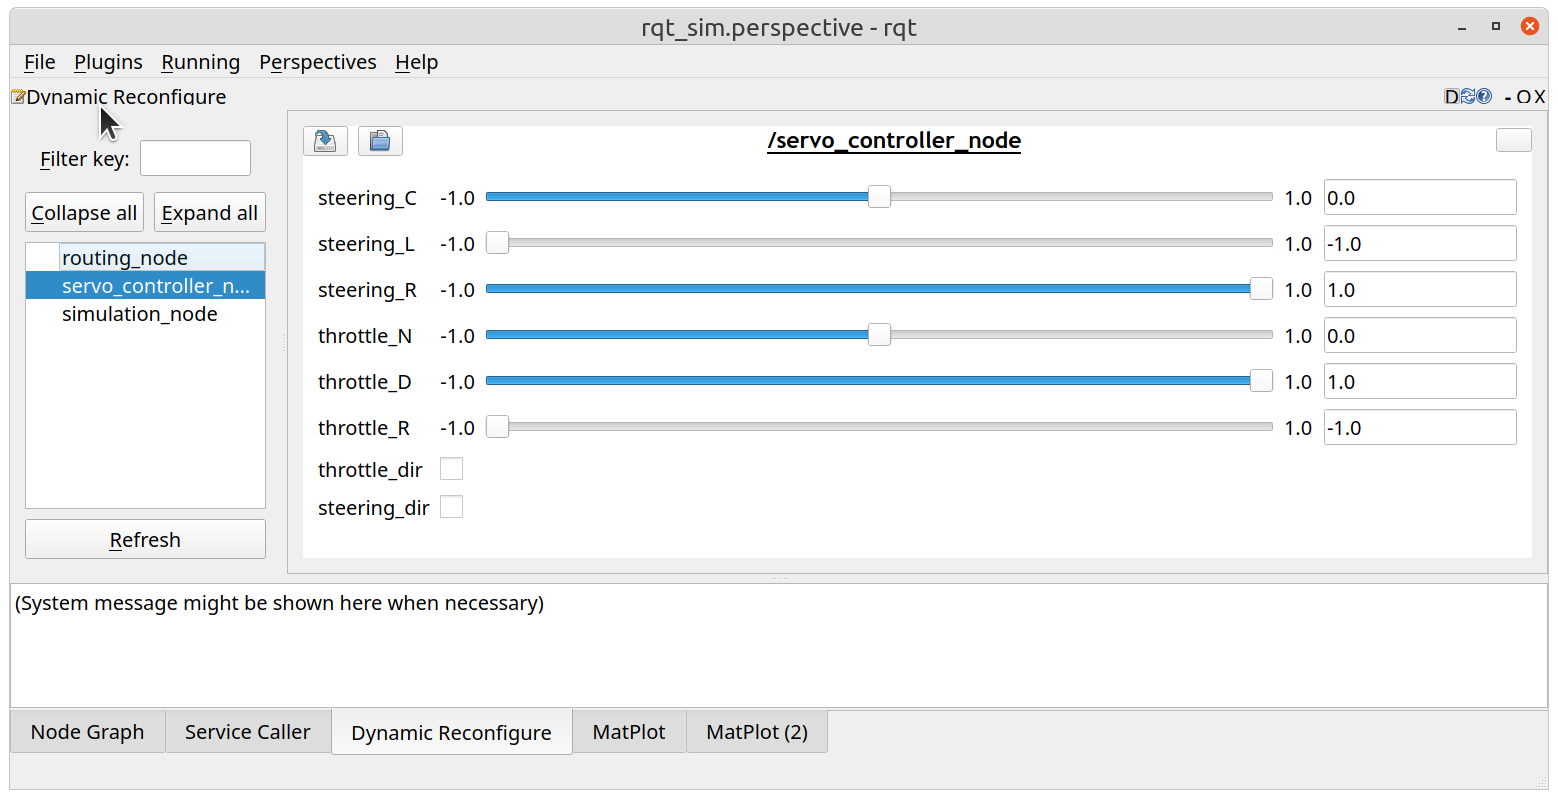
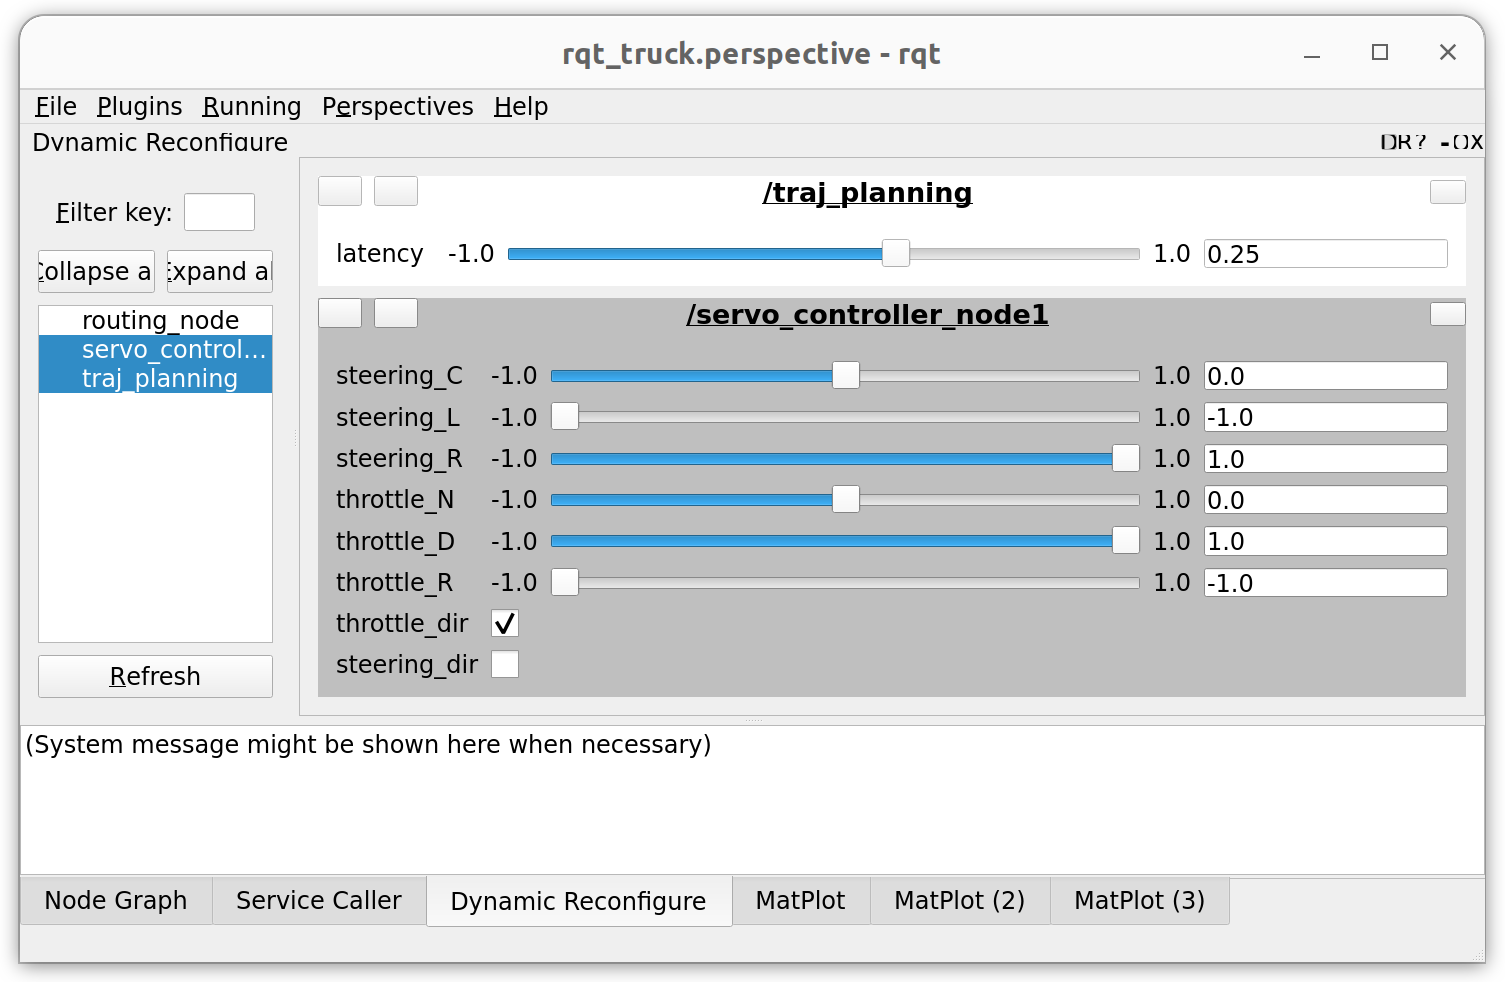
lab 2 updated demo instructions

diff --git a/ROS_Core/src/Labs/Lab2/README.md b/ROS_Core/src/Labs/Lab2/README.md
@@ -91,7 +91,7 @@ catkin_make
 # Set up laptop environment
 source devel/setup.bash
 # Launch simulation nodes
-roslaunch racecar_planner ilqr_simulation.launch
+roslaunch racecar_planner ilqr_simulation.launch enable
 ```
 After seeing `ILQR warm up finished` on your terminal, you can choose any point on the map using **2D Nav Goal** on your RViz. In **Figure 4**, we show an exemplary open-loop trajectory planned by the ILQR, where the red line is the reference path from the route planner and the green line is ILQR planned trajectory. **Record a video of your simulation results to upload to Canvas**.
 
@@ -150,8 +150,8 @@ source devel/setup.bash
 # Set up laptop ("client") network config
 # Check with: "hostname -I" in case laptop ip has changed
 source network_ros_client.sh <ROBOT_IP> <LAPTOP_IP>
-# Launch visualization nodes
-roslaunch racecar_interface visualization.launch
+# Launch visualization nodes, note: enable_routing:=true
+roslaunch racecar_interface visualization.launch enable_routing:=true
 ```
 Navigate to **Service Caller**, choose **/SLAM/start_slam**, and click **call**.
 
@@ -171,12 +171,14 @@ source network_ros_client.sh <ROBOT_IP> <LAPTOP_IP>
 roslaunch racecar_planner ilqr_truck.launch receding_horizon:=false
 ```
 
+## Updating Parameters Using Dynamic Reconfigure
+Remember to set your **Dynamic Reconfigure** settings to those you used in Lab 1, e.g. `throttle_dir`, perhaps `throttle_D`, etc. To improve the performance of your ILQR planner, you may also need to tune different parameters of the truck including the center point and range of the steering control (`steering_`), as well as the latency composition value (`latency` in the `traj_planning` node). 
+
+**ROS Dynamic Reconfigure** allows adjustment on the fly using RQT (**Figure 5**) instead of passing those values as ROS parameters by re-launching. Detailed tutorials on Dynamic Reconfigure can be found [here](http://wiki.ros.org/dynamic_reconfigure/Tutorials). 
+
+### Task 4: Demonstrating ILQR Planner on Robot
+Finally, test your planner on the mini truck robot and **record a video of your demonstration to be uploaded on Canvas**. You can also double-check your demo with a lab TA during lab OH before uploading! We relax the requirement from Lab 1 that the truck needs to stop *exactly* at your set goal (and this time stay in lanes), but adjust **Dynamic Reconfigure** to try your best!
+
 ![Update dynamic reconfigure parameters using RQT](assets/dyn_reconfig.png)
 
 ***Figure 5**: Update dynamic reconfigure parameters using RQT*
-
-## Updating Parameters Using Dynamic Reconfigure
-Due to hardware limitations, you might find it necessary to tune the direction and center point of the steering control, as well as the latency composition value to improve the performance of your plsanner on the robot. Instead of passing those values as ROS parameters, and setting them by re-launching, we can use **ROS Dynamic Reconfigure** to adjust them on the fly. Detailed tutorials on Dynamic Reconfigure can be found [here](http://wiki.ros.org/dynamic_reconfigure/Tutorials). You can adjust those parameters using RQT as shown in **Figure 5**.
-
-### Task 4: Demonstrating ILQR Planner on Robot
-Finally, test your planner on the mini truck robot and **record a video of your demonstration to be uploaded on Canvas**. You can also double-check your demo with a lab TA during lab OH before uploading!
